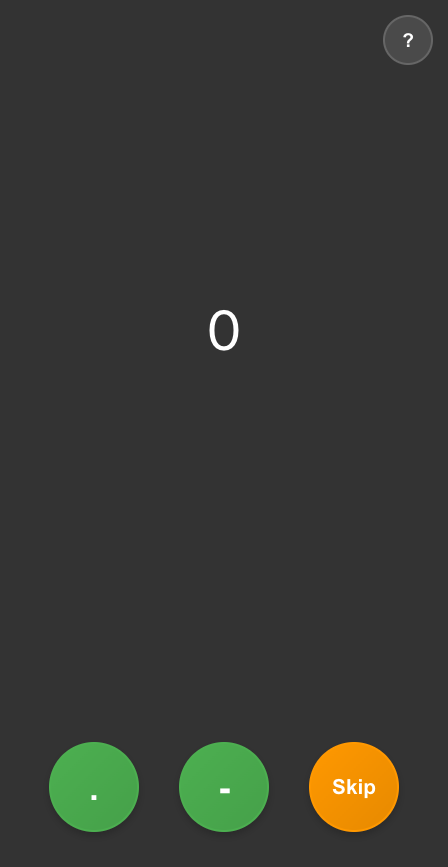
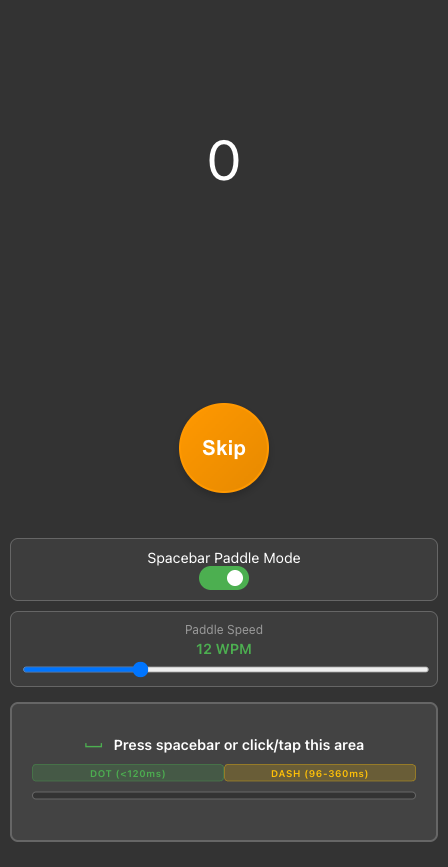
New screenshots.

diff --git a/_scripts/screenshot.js b/_scripts/screenshot.js
@@ -54,6 +54,16 @@ const scenarios = [
     fullPage: false
   },
   {
+    name: '03b-char-to-morse-paddle',
+    description: 'Character to Morse practice mode with spacebar paddle enabled',
+    url: '#char-to-morse',
+    actions: [
+      { type: 'click', selector: '#paddle-toggle' }
+    ],
+    waitFor: '#paddle-interface',
+    fullPage: false
+  },
+  {
     name: '04-morse-to-char',
     description: 'Morse to Character practice mode',
     url: '#morse-to-char',

diff --git a/.vibe_coding.md b/.vibe_coding.md
@@ -25,6 +25,8 @@ A Progressive Web App (PWA) for learning and practicing morse code. Built with v
 - `js/learn.js` - Reference chart display logic
 - `js/ui.js` - Shared UI components (keyboard generation)
 - `js/practice-mode-utils.js` - Shared utility class for common functionality across practice modes
+- `js/spacebar-paddle.js` - Spacebar paddle implementation for timing-based morse input
+- `styles/spacebar-paddle.css` - Styling for paddle interface, animations, and responsive design
 
 ## Application Flow
 
@@ -49,12 +51,31 @@ Button Click → loadGameMode() → fetch HTML → inject into container → ini
 ## Practice Modes Explained
 
 ### 1. Character to Morse (`char-to-morse`)
-- **Goal**: See character → input morse code using dot/dash buttons
+- **Goal**: See character → input morse code using dot/dash buttons or spacebar paddle
 - **Interface**: Character display, morse input field, dot/dash buttons, skip button
 - **Validation**: Real-time input checking with visual feedback
 - **Keyboard Support**: Physical "." and "-" keys supported with visual button feedback
-- **Help**: Corner button shows correct morse pattern
 - **Skip**: Orange circular button records wrong guess and advances to next character
+
+#### Spacebar Paddle Mode
+- **Purpose**: Timing-based morse input using spacebar (like amateur radio paddle)
+- **Activation**: Toggle switch in practice interface enables paddle mode
+- **Input Methods**: 
+  - **Desktop**: Spacebar key for timing-based input
+  - **Mobile**: Touch/tap the paddle interface area
+  - **Hybrid Devices**: Automatic conflict prevention between touch and mouse
+- **Timing Detection**: 
+  - Short press (< threshold) = dot (·)
+  - Long press (threshold to max) = dash (-)
+  - Invalid timing = visual feedback, no input
+- **Speed Control**: WPM slider (5-30) adjusts timing thresholds dynamically
+- **Visual Feedback**: 
+  - Real-time timing bar shows progress during press
+  - Color coding: green (dot zone), yellow (dash zone), red (invalid)
+  - Pressed state animation with scaling and glow effects
+- **Timing Formula**: Based on standard morse timing `1200ms/WPM` with 3:1 dot-to-dash ratio
+- **Error Handling**: Graceful degradation if DOM elements missing, comprehensive console warnings
+- **UI Integration**: Seamlessly replaces dot/dash buttons when enabled, maintains skip functionality
 
 ### 2. Morse to Character (`morse-to-char`) 
 - **Goal**: See morse pattern → select correct character
@@ -87,6 +108,30 @@ Button Click → loadGameMode() → fetch HTML → inject into container → ini
 const audioCtx = new AudioContext();
 const timing = { dot: 1200/wpm, dash: 1200/wpm*3, pause: 1200/wpm };
 // Generates precise morse audio with proper timing ratios
+```
+
+### Spacebar Paddle System (Character-to-Morse)
+```javascript
+// Timing-based morse input with cross-platform support
+const paddle = new SpacebarPaddle({
+    useInlineMode: true,
+    inlineContainer: document.getElementById('paddle-interface'),
+    inlineTimingBar: document.getElementById('inline-timing-bar'),
+    onInput: (symbol) => handleCharInput(symbol, state)
+});
+
+// Standard morse timing with human input adjustments
+const MORSE_TIMING = {
+    BASE_DOT_DURATION_FORMULA: 1200, // ms per WPM (standard)
+    DOT_TO_DASH_RATIO: 3,            // Standard 3:1 ratio
+    PADDLE_TIMING_MULTIPLIER: 1.2,   // Slightly longer for human input
+    TOLERANCE_RATIO: 0.4              // Timing tolerance
+};
+
+// Cross-platform event handling with conflict prevention
+// Desktop: spacebar + mouse click support
+// Mobile: touch events with passive: false for preventDefault
+// Hybrid: interaction type tracking prevents double-triggering
 ```
 
 ### CSS Architecture
@@ -149,7 +194,8 @@ export function initModeName() {
 - **App-like**: Status bar styling, theme colors, orientation lock
 
 ## Recent Development History
-- **Major Refactoring (Latest)**: Created `js/practice-mode-utils.js` with shared `PracticeMode` class, eliminating ~273 lines of duplicate code across all modes while maintaining functionality
+- **Spacebar Paddle Implementation (Latest)**: Added timing-based morse input mode to character-to-morse practice with cross-platform support (desktop spacebar, mobile touch), real-time visual feedback, speed control, and comprehensive error handling
+- **Major Refactoring**: Created `js/practice-mode-utils.js` with shared `PracticeMode` class, eliminating ~273 lines of duplicate code across all modes while maintaining functionality
 - **Keyboard Support Enhancement**: Added physical keyboard input to all practice modes with proper event listener cleanup and visual feedback
 - **Bug fixes**: Fixed morse-to-char feedback persistence and skip answer HTML rendering issues
 - **CSS Restructure**: Split monolithic `style.css` into modular `styles/` directory architecture
